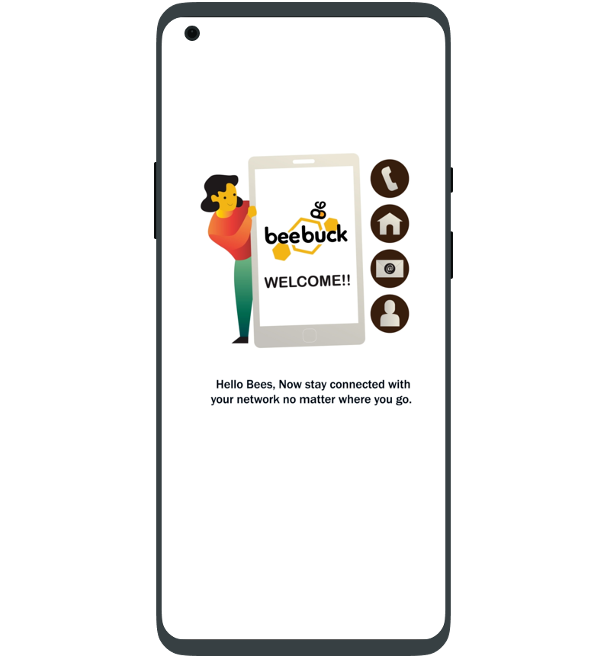
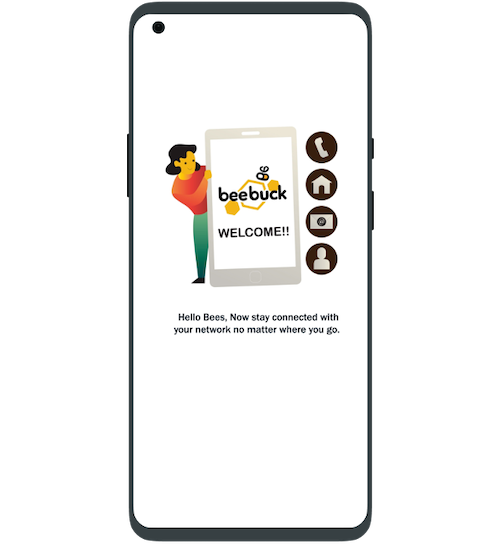
wip

diff --git a/index.html b/index.html
@@ -39,10 +39,10 @@
                         </div>
                     </div>
                     <div class="col-xl-10 col-lg-10 col-md-7 col-8 d-none d-md-block">
-                        <div class="header-btn f-right d-none d-sm-none d-md-block">
+                        <!-- <div class="header-btn f-right d-none d-sm-none d-md-block">
                             <a href="login.html" class="btn"><i class="fal fa-lock-alt"></i>Sign In</a>
                             <a href="login.html" class="btn"><i class="fal fa-lock-alt"></i>Sign Up</a>
-                        </div>
+                        </div> -->
                         <div class="main-menu colormenu d-block">
                             <nav id="mobile-menu">
                                 <ul>
@@ -77,9 +77,9 @@
 
 
     <main>
-        <div class="app_slider  d-flex align-items-center fix">
+        <div class="app_slider  d-flex align-items-center fix" style="background : white">
             <div class="App_shape-circle">
-                <img class="shapeAbsoulute scale-upOne d-sm-none d-md-block" src="assets/img/shape/circle.png" alt="" />
+                <img class="shapeAbsoulute scale-upOne d-sm-none d-md-block" style="margin-left:50px;" src="assets/img/shape/circle.png" alt="" />
                 <img class="shape10" src="assets/img/shape/shape10.png" alt="" />
             </div>
             <div class="container">
@@ -103,7 +103,9 @@
                                 <img class="shape9" src="assets/img/shape/shape9.png" alt="" />
                                 <img class="shape11" src="assets/img/shape/shape5.png" alt="" />
                             </div>
-                            <h2 class="hero-two-title">BeeBuck</h2>
+                            <h2 class="hero-two-title">
+                                <img style="max-width : 300px" src="assets/img/logo/welcome.jpeg" alt="">
+                            </h2>
                             <p>Keep Connect and Expand.</p>
                             <div class="slider-btn">
                                 <a class="" href="#">
@@ -220,7 +222,7 @@
                     </div>
                     <div class="col-xl-6 col-lg-6 col-md-12">
                         <div class="features pt-80 feturesCommon wow fadeInUp" data-wow-delay=".3s" style="visibility: visible; animation-delay: 0.2s; animation-name: fadeInUp;">
-                            <div class="features__content">
+                            <div class="features__content" style="margin-top:75px;">
                                 <h2 class="section-title">Keep Connect and Expand.</h2>
                                 <p>Beebuck was born out of the desire to help people to stay connected with people. It is easy to connect
                                     with people but it isn’t easy to maintain and stay connected with them. Beebuck allows you to create
@@ -269,9 +271,9 @@
                 <div class="row align-items-center">
                     <div class="col-md-4 col-lg-4">
                         <div class="feature3">
-                            <div class="feature3__image">
+                            <!-- <div class="feature3__image">
                                 <img class="pb-30" src="assets/img/service/s7.png" alt="details" />
-                            </div>
+                            </div> -->
                             <div class="feature3__content">
                                 <h4 class="content_title">BeeHive</h4>
                                 <p> Beehive will provide you to create pages, groups, and sub-groups. One can create any number of pages, in
@@ -279,9 +281,9 @@
                             </div>
                         </div>
                         <div class="feature3">
-                            <div class="feature3__image febg1">
+                            <!-- <div class="feature3__image febg1">
                                 <img class="pb-30" src="assets/img/fetures/s2.png" alt="details" />
-                            </div>
+                            </div> -->
                             <div class="feature3__content">
                                 <h4 class="content_title">The Directory</h4>
                                 <p>The directory feature helps the user to digitalize all your directories. After the admin creates a
@@ -289,9 +291,9 @@
                             </div>
                         </div>
                         <div class="feature3">
-                            <div class="feature3__image febg2">
+                            <!-- <div class="feature3__image febg2">
                                 <img class="pb-30" src="assets/img/fetures/s3.png" alt="details" />
-                            </div>
+                            </div> -->
                             <div class="feature3__content">
                                 <h4 class="content_title">Cards</h4>
                                 <p>Avoid carrying the business cards everywhere with us and to find the required contact details from our physical card collections with ease.</p>
@@ -305,9 +307,9 @@
                     </div>
                     <div class="col-md-4 col-lg-4">
                         <div class="feature3">
-                            <div class="feature3__image febg3">
+                            <!-- <div class="feature3__image febg3">
                                 <img class="pb-30" src="assets/img/fetures/s4.png" alt="details" />
-                            </div>
+                            </div> -->
                             <div class="feature3__content">
                                 <h4 class="content_title">Events</h4>
                                 <p>Beebuck will notify users well ahead of important events and make them not miss any events</p>
